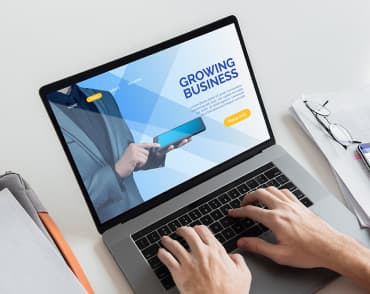
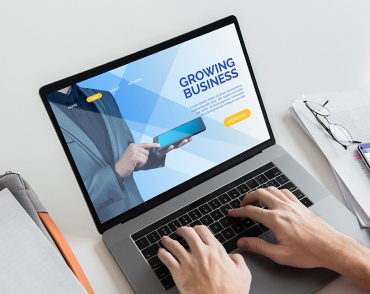
добалены картинки на ретину

diff --git a/portfolio.html b/portfolio.html
@@ -114,7 +114,15 @@
           <li class="projects__item">
             <a href="" class="projects__link link">
               <div class="box">
-                <img src="./image/tecnokrak.jpg" alt="Технокряк" width="370" />
+                <img
+                  srcset="
+                    ./image/technokryak.jpg    1x,
+                    ./image/technokryak@2x.jpg 2x
+                  "
+                  src="./image/tecnokryak.jpg"
+                  alt="Технокряк"
+                  width="370"
+                />
                 <div class="overlay">
                   <p>
                     Технокряк это современная площадка распространения
@@ -134,7 +142,11 @@
             <a href="" class="projects__link link">
               <div class="box">
                 <img
-                  src="./image/new-orlean-poster.jpg"
+                  srcset="
+                    ./image/goldenstar.jpg    1x,
+                    ./image/goldenstar@2x.jpg 2x
+                  "
+                  src="./image/goldenstar.jpg"
                   alt="Постер New Orlean vs Golden Star"
                   width="370"
                 />
@@ -159,6 +171,7 @@
             <a href="" class="projects__link link">
               <div class="box">
                 <img
+                  srcset="./image/seafood.jpg 1x, ./image/seafood@2x.jpg 2x"
                   src="./image/seafood.jpg"
                   alt="Ресторан Seafood"
                   width="370"
@@ -182,7 +195,11 @@
             <a href="" class="projects__link link">
               <div class="box">
                 <img
-                  src="./image/project-prime.jpg"
+                  srcset="
+                    ./image/headphones.jpg    1x,
+                    ./image/headphones@2x.jpg 2x
+                  "
+                  src="./image/headphones.jpg"
                   alt="Проект Prime"
                   width="370"
                 />
@@ -205,7 +222,8 @@
             <a href="" class="projects__link link">
               <div class="box">
                 <img
-                  src="./image/project-boxes.jpg"
+                  srcset="./image/boxes.jpg 1x, ./image/boxes@2x.jpg 2x"
+                  src="./image/boxes.jpg"
                   alt="Проект Boxes"
                   width="370"
                 />
@@ -228,7 +246,8 @@
             <a href="" class="projects__link link">
               <div class="box">
                 <img
-                  src="./image/web-site-no-borders.jpg"
+                  srcset="./image/desktop.jpg 1x, ./image/desktop@2x.jpg 2x"
+                  src="./image/desktop.jpg"
                   alt="Inspiration has no Borders"
                   width="370"
                 />
@@ -251,7 +270,11 @@
             <a href="" class="projects__link link">
               <div class="box">
                 <img
-                  src="./image/limited-idition.jpg"
+                  srcset="
+                    ./image/limited-edition.jpg 1x,
+                    ./image/limited-edition@2x  2x
+                  "
+                  src="./image/limited-edition.jpg"
                   alt="Издание Limited Edition"
                   width="370"
                 />
@@ -274,7 +297,8 @@
             <a href="" class="projects__link link">
               <div class="box">
                 <img
-                  src="./image/project-lab.jpg"
+                  srcset="./image/lab.jpg 1x, ./image/lab@2x.jpg 2x"
+                  src="./image/lab.jpg"
                   alt="Проект LAB"
                   width="370"
                 />
@@ -297,6 +321,10 @@
             <a href="" class="projects__link link">
               <div class="box">
                 <img
+                  srcset="
+                    ./image/growing-business.jpg    1x,
+                    ./image/growing-business@2x.jpg 2x
+                  "
                   src="./image/growing-business.jpg"
                   alt="Growing Business"
                   width="370"

diff --git a/index.html b/index.html
@@ -144,14 +144,20 @@
 
         <ul class="doing__list list">
           <li class="doing__item">
-            <img src="./image/img.jpg" alt="Печатает код" width="370" />
+            <img
+              srcset="./image/desctop.jpg 1x, ./image/desctop@2x.jpg 2x"
+              src="./image/desctop.jpg"
+              alt="Печатает код"
+              width="370"
+            />
             <div>
               <p class="doing__text">ДЕСКТОПНЫЕ ПРИЛОЖЕНИЯ</p>
             </div>
           </li>
           <li class="doing__item">
             <img
-              src="./image/img(1).jpg"
+              srcset="./image/design.jpg 1x, ./image/design@2x.jpg 2x"
+              src="./image/design.jpg"
               alt="Выбирает макет сайта"
               width="370"
             />
@@ -161,7 +167,8 @@
           </li>
           <li class="doing__item">
             <img
-              src="./image/img(2).jpg"
+              srcset="./image/mobile.jpg 1x, ./image/mobile@2x.jpg 2x"
+              src="./image/mobile.jpg"
               alt="Выбирает цвет из палитры"
               width="370"
             />
@@ -180,7 +187,8 @@
         <ul class="our-team__list list">
           <li class="our-team__item">
             <img
-              src="./image/Igor-Demyanenko.jpg"
+              srcset="./image/igor.jpg 1x, ./image/igor@2x.jpg 2x"
+              src="./image/igor.jpg"
               alt="Игорь Демьяненко"
               width="270"
             />
@@ -219,7 +227,12 @@
           </li>
 
           <li class="our-team__item">
-            <img src="./image/Olga-Repina.jpg" alt="Ольга Репина" width="270" />
+            <img
+              srcset="./image/olga.jpg 1x, ./image/olga@2x.jpg 2x"
+              src="./image/olga.jpg"
+              alt="Ольга Репина"
+              width="270"
+            />
             <h3 class="our-team__name">Ольга Репина</h3>
             <p class="position">Frontend Developer</p>
             <ul class="list social-networks">
@@ -256,7 +269,8 @@
 
           <li class="our-team__item">
             <img
-              src="./image/Nikolay-Tarasov.jpg"
+              srcset="./image/nikolay.jpg 1x, ./image/nikolay@2x.jpg 2x"
+              src="./image/nikolay.jpg"
               alt="Николай Тарасов"
               width="270"
             />
@@ -296,7 +310,8 @@
 
           <li class="our-team__item">
             <img
-              src="./image/Mikhail-Ermakov.jpg"
+              srcset="./image/mikhail.jpg 1x, ./image/mikhail@2x.jpg 2x"
+              src="./image/mikhail.jpg"
               alt="Михаил Ермаков"
               width="270"
             />
